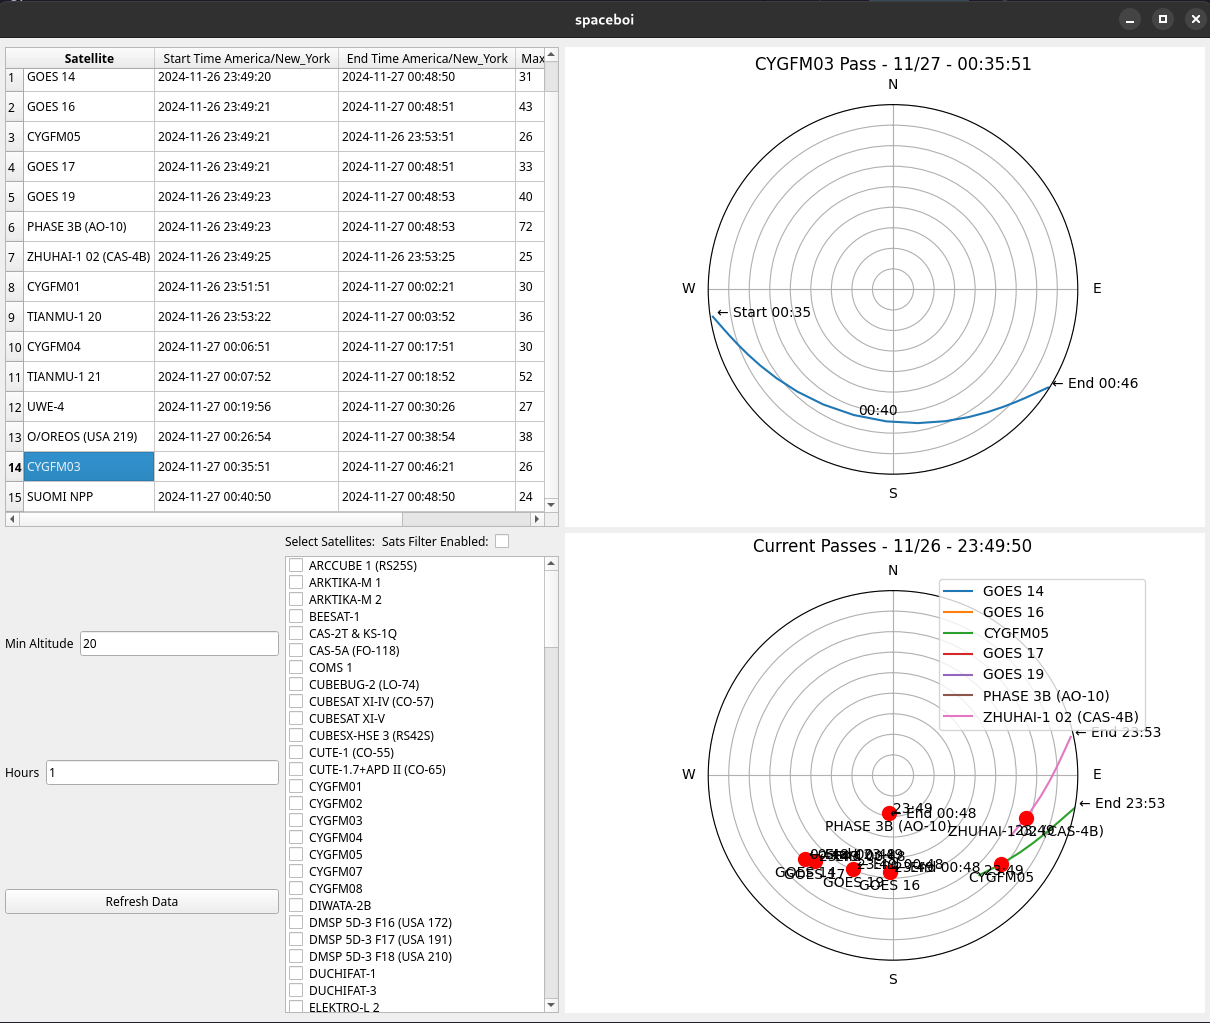
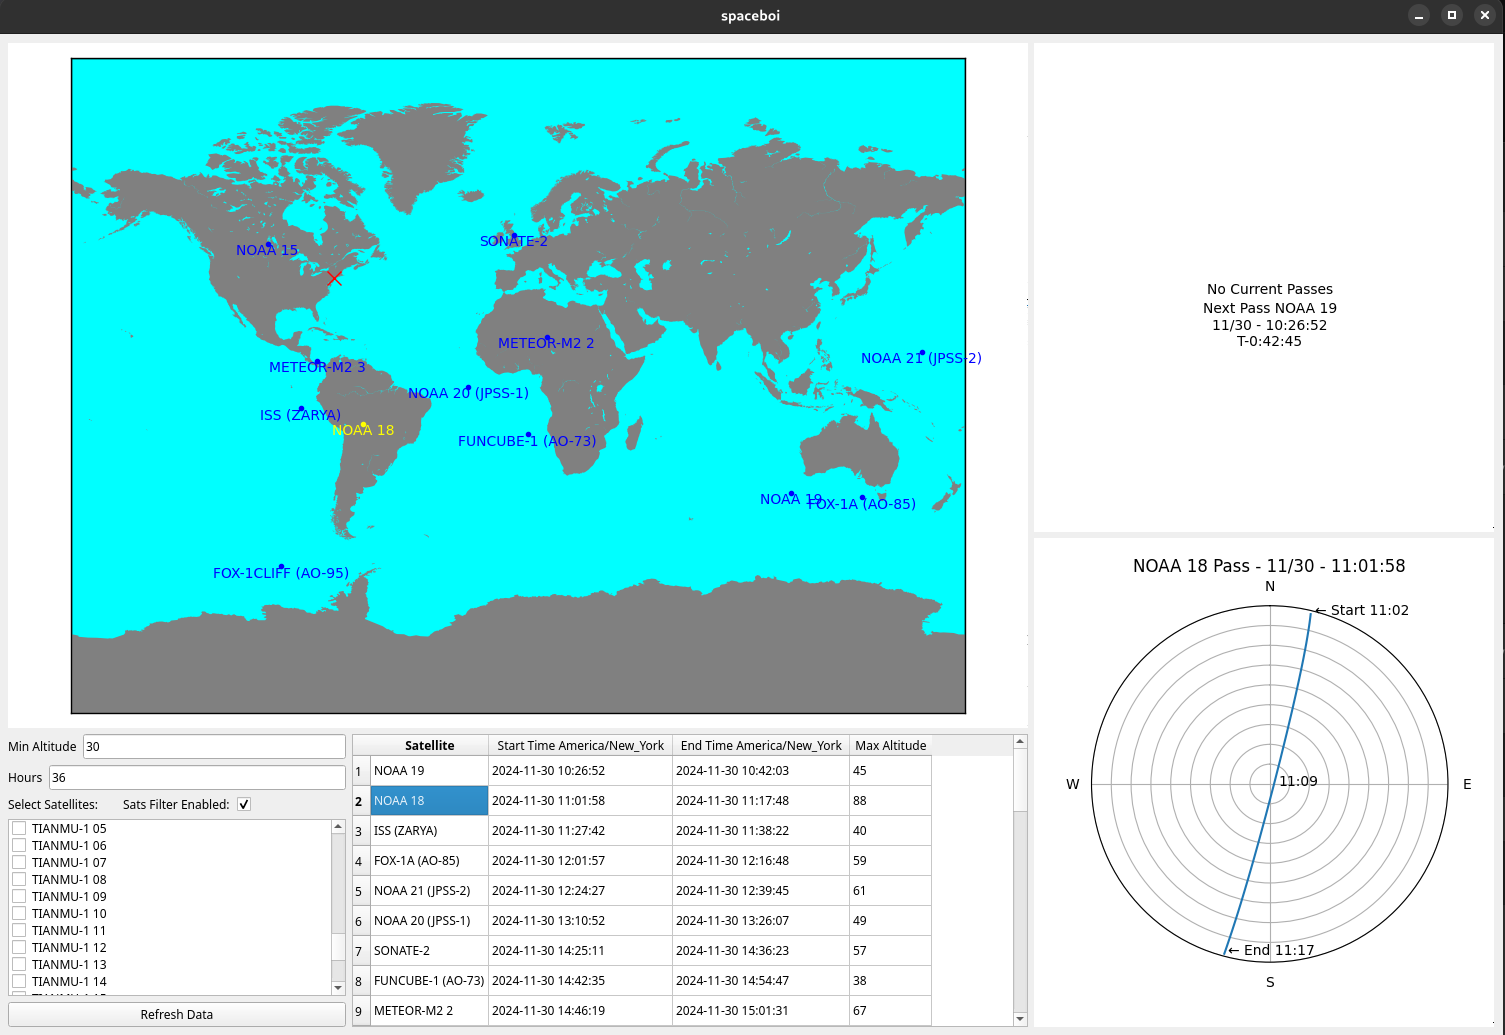
first release

diff --git a/spaceboi.py b/spaceboi.py
@@ -8,11 +8,12 @@ import requests
 from io import BytesIO
 import concurrent.futures
 import argparse
+import darkdetect
 
 import sys
 from PyQt5.QtWidgets import (
     QApplication, QMainWindow, QTableWidget, QTableWidgetItem,
-    QVBoxLayout, QWidget, QPushButton, QHBoxLayout, QLineEdit, QLabel, QListWidget, QAbstractItemView, QListWidgetItem, QCheckBox
+    QVBoxLayout, QWidget, QPushButton, QHBoxLayout, QLineEdit, QLabel, QListWidget, QAbstractItemView, QListWidgetItem, QCheckBox, QSizePolicy
 )
 from PyQt5.QtCore import ( Qt, QRunnable, QThreadPool, pyqtSlot, pyqtSignal, QObject )
 
@@ -226,15 +227,17 @@ def plot_event(satellite, event, ts, topo, ax=None):
     max_alt_label = times[max_alt_index].astimezone(pytz.timezone('US/Eastern')).strftime('%H:%M')
     
     # Annotate start time
-
-    if max_alt_index != 0:
+    if max_alt_index != 0 and len(altitudes) > 2:
       ax.annotate(start_label, (azimuths[0], altitudes[0]), xytext=(3, 0), textcoords='offset points')
     
     # Annotate end time
-    ax.annotate(end_label, (azimuths[-1], altitudes[-1]), xytext=(3, 0), textcoords='offset points')
+    if len(altitudes) > 2:
+        ax.annotate(end_label, (azimuths[-1], altitudes[-1]), xytext=(3, 0), textcoords='offset points')
     
+
     # Annotate max altitude time
-    ax.annotate(max_alt_label, (azimuths[max_alt_index], max_alt), xytext=(3, 0), textcoords='offset points')
+    if len(altitudes) > 2:
+        ax.annotate(max_alt_label, (azimuths[max_alt_index], max_alt), xytext=(3, 0), textcoords='offset points')
 
     # Plot location of the sat now if it is in the pass
     current_time = ts.now()
@@ -246,7 +249,7 @@ def plot_event(satellite, event, ts, topo, ax=None):
         alt, az, distance = topocentric.altaz()
 
         if alt.degrees > 0:
-            ax.plot(np.radians(az.degrees), alt.degrees, 'ro', markersize=10)
+            ax.plot(np.radians(az.degrees), alt.degrees, 'ro', markersize=5)
             ax.annotate(event["satellite"], (np.radians(az.degrees), alt.degrees), xytext=(0,-5), textcoords='offset points', ha="center", va="top")
 
     # Customize the plot
@@ -307,7 +310,7 @@ class Worker(QRunnable):
     @pyqtSlot()
     def run(self):
         try:
-            filtered_satellites, satellites = fetchAllData(self.config)
+            filtered_satellites, satellites = fetchAllData(self.config, self.ts)
             events = []
             topo = Topos(self.config["lat"], self.config["lon"])
 
@@ -332,6 +335,24 @@ class Worker(QRunnable):
         except Exception as e:
             self.signals.error.emit(str(e))  # Emit the error message
 
+
+dark_stylesheet = """
+    QMainWindow {
+        background-color: #2b2b2b;
+        color: #ffffff;
+    }
+    QPushButton {
+        background-color: #3c3f41;
+        color: #ffffff;
+        border: 1px solid #555555;
+        border-radius: 5px;
+        padding: 5px;
+    }
+    QPushButton:hover {
+        background-color: #444444;
+    }
+"""
+
 class SatelliteApp(QMainWindow):
     def __init__(self, ts, config):
         super().__init__()
@@ -345,6 +366,10 @@ class SatelliteApp(QMainWindow):
         self.config = config
         self.selected_sat = None
 
+        #if darkdetect.isDark():
+        #    self.setStyleSheet(dark_stylesheet)
+
+
         # Main layout
         self.setWindowTitle("spaceboi")
         central_widget = QWidget()
@@ -357,24 +382,24 @@ class SatelliteApp(QMainWindow):
         left_layout = QVBoxLayout()
         main_layout.addLayout(left_layout)
 
-
         # Add map plot
         self.fig_map, self.ax_map = plt.subplots(figsize=(12, 7))
         self.canvas_map = FigureCanvas(self.fig_map)
         self.map = initialize_map(self.ax_map)
         left_layout.addWidget(self.canvas_map)
+        self.fig_map.tight_layout()
 
-        # Add table
-        self.table = QTableWidget(0, 4)
-        self.table.setHorizontalHeaderLabels(["Satellite", f"Start Time {self.config['timezone']}", f"End Time {self.config['timezone']}", "Max Altitude"])
-        left_layout.addWidget(self.table)
-        self.table.itemSelectionChanged.connect(self.on_table_selection_changed)
+        # Bottom left layout for table and buttons
+        bottom_left_layout = QHBoxLayout()
+        left_layout.addLayout(bottom_left_layout)
 
 
-        config_layout = QHBoxLayout()
         # Add buttons
-        btn_layout = QVBoxLayout()
-        
+        config_layout = QVBoxLayout()
+
+        # Add satellite selection list with checkboxes
+        sat_list_layout = QVBoxLayout()
+
         # Add input to change min altitude
         alt_layout = QHBoxLayout()
         min_altitude_input = QLineEdit()
@@ -382,7 +407,7 @@ class SatelliteApp(QMainWindow):
         min_altitude_input.textChanged.connect(self.on_min_altitude_changed)
         alt_layout.addWidget(QLabel("Min Altitude"))
         alt_layout.addWidget(min_altitude_input)
-        btn_layout.addLayout(alt_layout)
+        config_layout.addLayout(alt_layout)
 
         hours_layout = QHBoxLayout()
         hours_input = QLineEdit()
@@ -390,15 +415,7 @@ class SatelliteApp(QMainWindow):
         hours_input.textChanged.connect(self.on_hours_changed)
         hours_layout.addWidget(QLabel("Hours"))
         hours_layout.addWidget(hours_input)
-        btn_layout.addLayout(hours_layout)
-
-        refresh_btn = QPushButton("Refresh Data")
-        refresh_btn.clicked.connect(self.refresh_data)
-        btn_layout.addWidget(refresh_btn)
-        config_layout.addLayout(btn_layout)
-
-        # Add satellite selection list with checkboxes
-        sat_list_layout = QVBoxLayout()
+        config_layout.addLayout(hours_layout)
 
         self.sat_list_widget = QListWidget()
         self.sat_list_widget.setSelectionMode(QAbstractItemView.NoSelection)
@@ -419,23 +436,31 @@ class SatelliteApp(QMainWindow):
         sat_list_layout.addWidget(self.sat_list_widget)
         config_layout.addLayout(sat_list_layout)
 
-        left_layout.addLayout(config_layout)
+        refresh_btn = QPushButton("Refresh Data")
+        refresh_btn.clicked.connect(self.refresh_data)
+        config_layout.addWidget(refresh_btn)
+
+        bottom_left_layout.addLayout(config_layout, stretch=1)
+
+        # Add table
+        self.table = QTableWidget(0, 4)
+        self.table.setHorizontalHeaderLabels(["Satellite", f"Start Time {self.config['timezone']}", f"End Time {self.config['timezone']}", "Max Altitude"])
+        bottom_left_layout.addWidget(self.table, stretch=2)
+        self.table.itemSelectionChanged.connect(self.on_table_selection_changed)
 
         # Right layout for plots
         right_layout = QVBoxLayout()
         main_layout.addLayout(right_layout)
-
-        # Add Single plot
-        self.single_fig, self.single_ax = plt.subplots(subplot_kw={'projection': 'polar'})
-        self.single_canvas = FigureCanvas(self.single_fig)
-        right_layout.addWidget(self.single_canvas)
 
         # Add Current Events plot
         self.fig, self.ax = plt.subplots(subplot_kw={'projection': 'polar'})
         self.canvas = FigureCanvas(self.fig)
         right_layout.addWidget(self.canvas)
 
-
+        # Add Single plot
+        self.single_fig, self.single_ax = plt.subplots(subplot_kw={'projection': 'polar'})
+        self.single_canvas = FigureCanvas(self.single_fig)
+        right_layout.addWidget(self.single_canvas)
 
         # Timer for updating plot
         self.timer = QTimer(self)
@@ -673,7 +698,7 @@ class SatelliteApp(QMainWindow):
 
 
 
-        plot_map(sats, self.ts, config, ax=self.ax_map, my_map=self.map, selected=self.selected_sat)
+        plot_map(sats, self.ts, self.config, ax=self.ax_map, my_map=self.map, selected=self.selected_sat)
         self.canvas_map.draw_idle()
 
     def writeConfig(self):
@@ -764,7 +789,7 @@ def fetchData(url):
 
     return text_string
 
-def fetchAllData(config):
+def fetchAllData(config, ts):
   satellites = []
   all_sats = []
 
@@ -795,7 +820,7 @@ def fetchAllData(config):
 
   return filtered_sats, all_sats
 
-if __name__ == "__main__":
+def main(mode='gui'):
     
   config  = None
   ts = load.timescale()
@@ -803,7 +828,7 @@ if __name__ == "__main__":
 
   parser = argparse.ArgumentParser(description='spaceboi')
 
-  parser.add_argument('mode', type=str, choices=['gui', 'plot', 'cli'], default='cli', help='Mode to run the program in')
+  parser.add_argument('--mode', type=str, choices=['gui', 'plot', 'cli'], default='gui', required=False, help='Mode to run the program in')
   parser.add_argument('--lat', type=float, required=False, help='Latitude of the observer')
   parser.add_argument('--lon', type=float, required=False, help='Longitude of the observer')
   parser.add_argument('--min_alt', type=int, required=False, help='Minimum altitude of the satellite')
@@ -826,7 +851,7 @@ if __name__ == "__main__":
 
   if args.mode == 'plot':
     topo = Topos(config["lat"], config["lon"])
-    satellites, all_sats = fetchAllData(config)
+    satellites, all_sats = fetchAllData(config, ts)
     events = []
     for sat in satellites:
       events.extend(calcPasses(sat, t, config["hours"], topo, config["min_alt"]))
@@ -852,7 +877,7 @@ if __name__ == "__main__":
 
     t = ts.now()
     topo = Topos(config["lat"], config["lon"])
-    satellites, all_sats = fetchAllData(config)
+    satellites, all_sats = fetchAllData(config, ts)
     events = []
     for sat in satellites:
       events.extend(calcPasses(sat, t, config["hours"], topo, config["min_alt"]))
@@ -863,3 +888,6 @@ if __name__ == "__main__":
 
     for event in events:
         print(formatPass(event, pytz.timezone('US/Eastern')))
+
+if __name__ == "__main__":
+    main()

diff --git a/setup.py b/setup.py
@@ -1,0 +1,26 @@
+from setuptools import setup, find_packages
+
+setup(
+        name="spaceboi",
+        version="0.1",
+        author="ericpar234",
+        description="A radio satellite event tracker.",
+        long_description=open("README.md").read(),
+        long_description_content_type="text/markdown",
+        url="github.com/ericpar234/spaceboi",
+        packages=find_packages(),
+        py_modules=["spaceboi"],
+        install_requires=open("requirements.txt").read().splitlines(),
+        classifiers=[
+            "Programming Language :: Python :: 3",
+            "License :: OSI Approved :: MIT License",
+            "Operating System :: OS Independent",
+        ],
+        python_requires=">=3.10",
+
+        entry_points={
+            "console_scripts": [
+                "spaceboi = spaceboi:main"
+            ]
+        },
+)

diff --git a/README.md b/README.md
@@ -61,15 +61,15 @@ Example config.json
 
 ```bash
 # A gui to view passes
-python spaceboi.py gui
+python spaceboi.py --mode gui
 
 # Print the passes
-python spaceboi.py cli
+python spaceboi.py --mode cli
 
 # or
 
 # Plot the passes
-python spaceboi.py plot
+python spaceboi.py --mode plot
 ```
 
 All config options can be used as command line arguments. For example:
